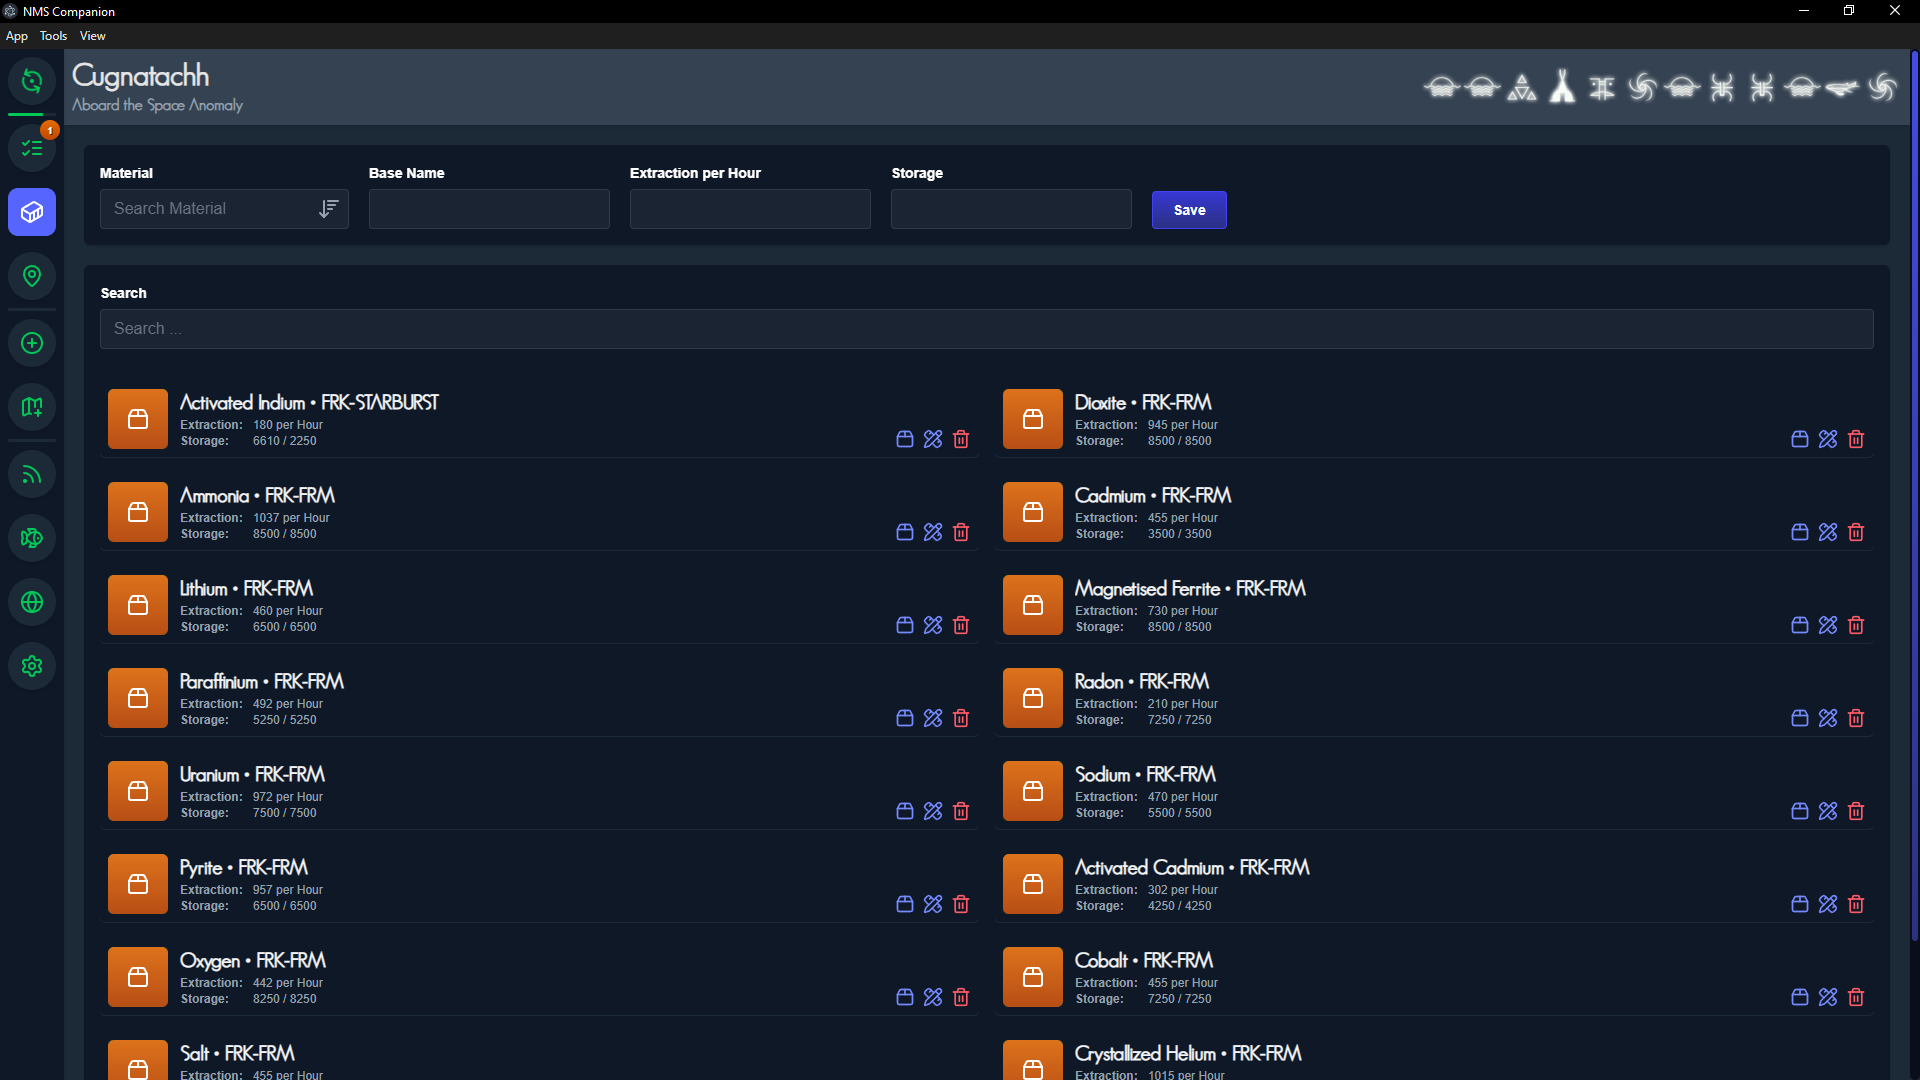
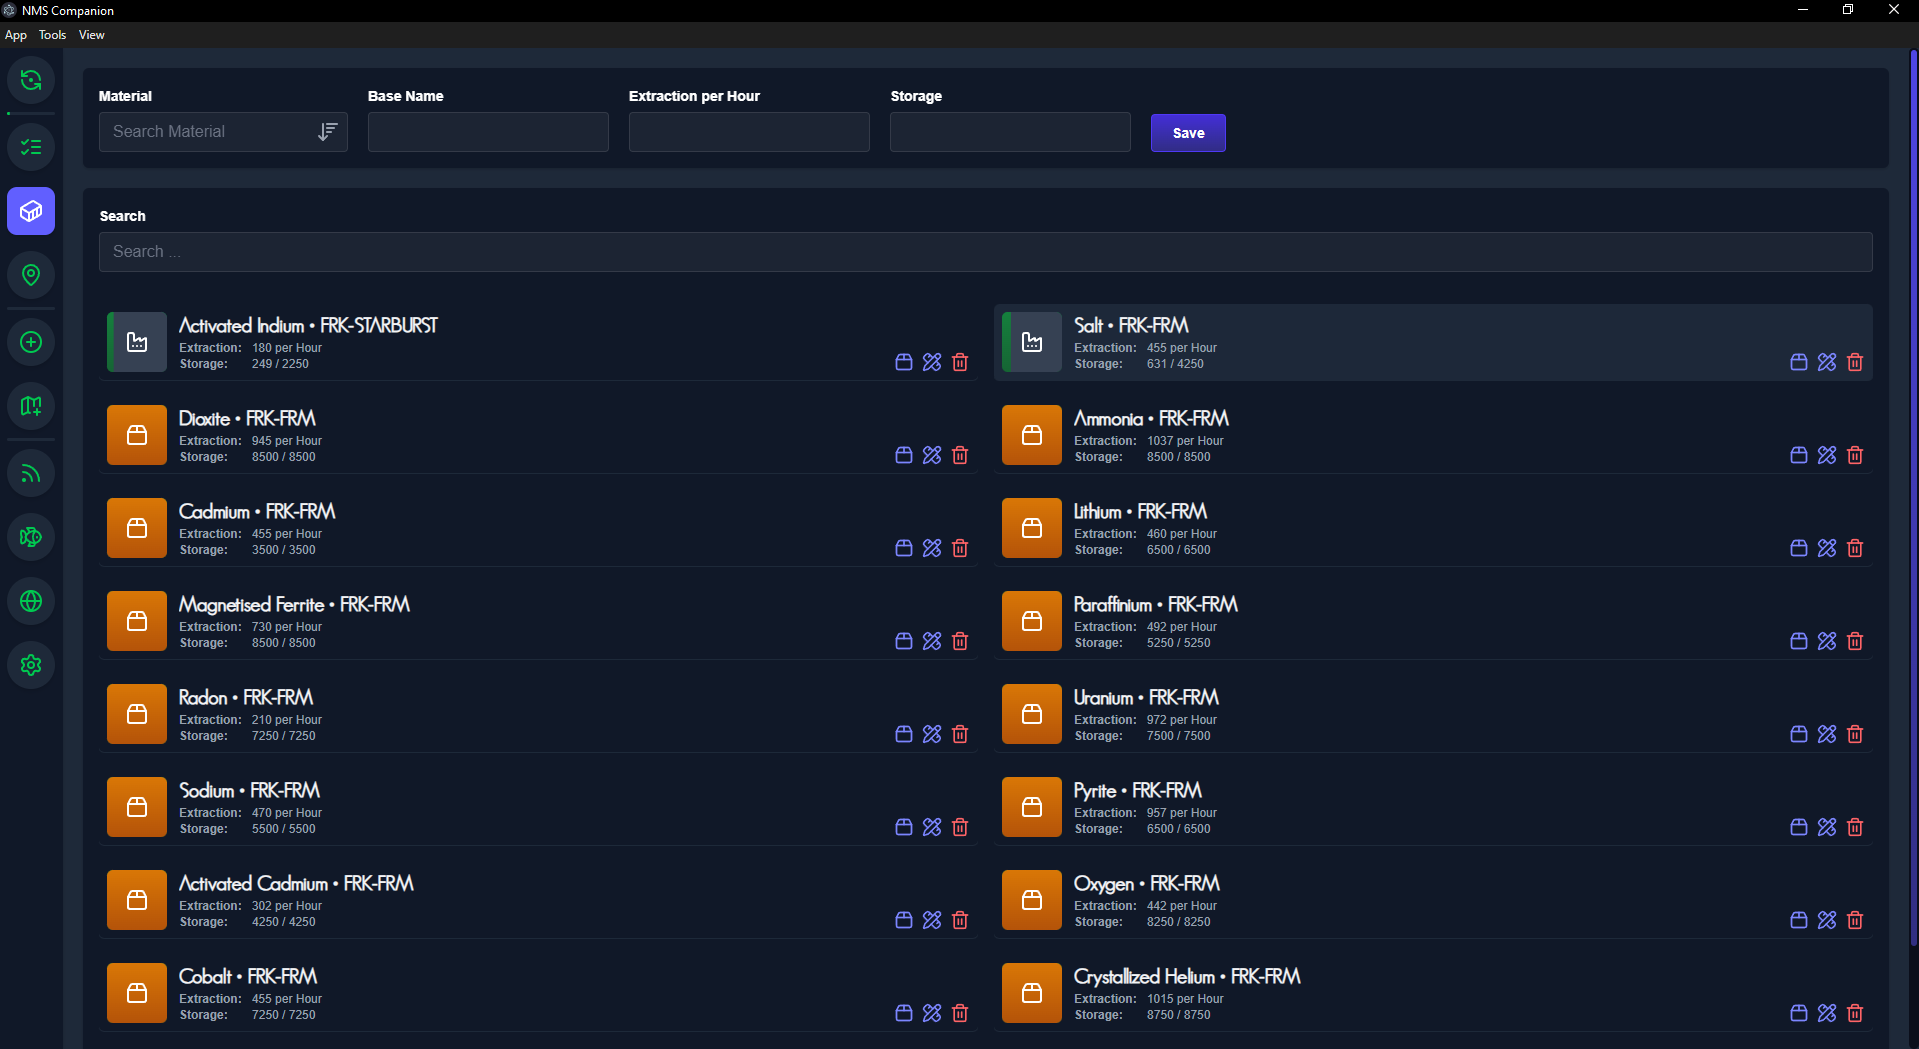
fix: lint

diff --git a/src/app/screens/Missions.tsx b/src/app/screens/Missions.tsx
@@ -1,5 +1,4 @@
 import { useEffect } from 'react';
-import { nodeModuleNameResolver } from 'typescript';
 
 import Card from '../components/Card';
 import CommunityProgressBar from '../components/CommunityProgress';
@@ -80,5 +79,3 @@ export default function MissionsPage () {
     </div>
   );
 }
-
-// { "missionId": 106, "currentTier": 3, "percentage": 39, "totalTiers": 5 }
